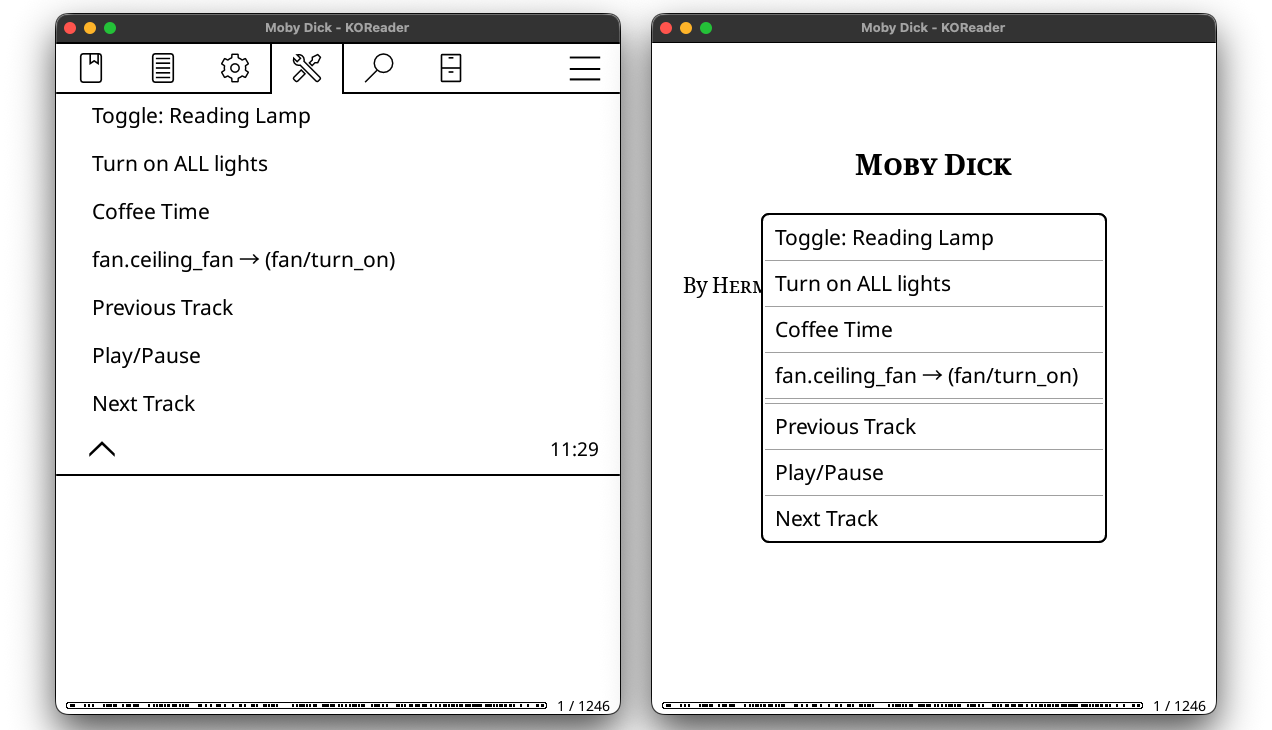
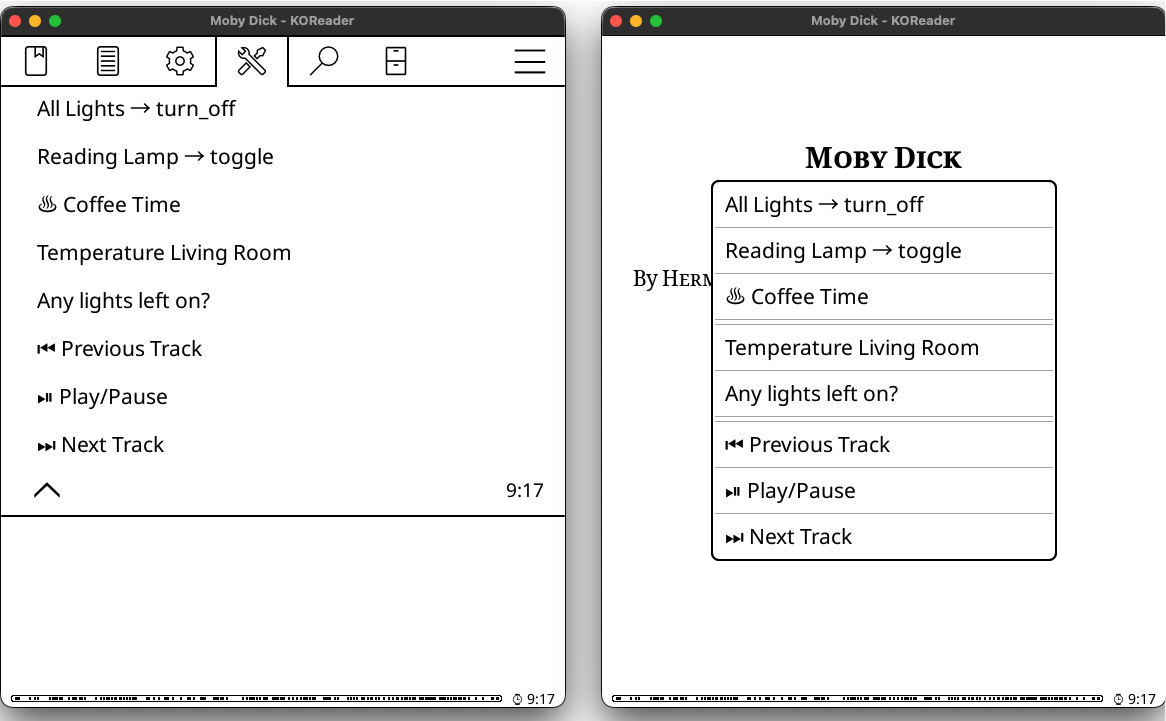
Update README with new config.lua format
Update screenshots

diff --git a/README.md b/README.md
@@ -14,7 +14,8 @@ This [KOReader](https://koreader.rocks/) plugin lets you control Home Assistant 
 ## Features
 
 - Control any number of Home Assistant entities from KOReader 
-- Basic service support (e.g. `light/turn_on`, `switch/toggle`, `fan/turn_on`)  
+- Basic service support (e.g. `light/turn_on`, `fan/turn_on` or `media_player/media_play_pause`)  
+- Basic entity state support (e.g. `sensor.temperature_outside` or `binary_sensor.front_door`)
 - Lightweight, unobtrusive interface  
 - Simple text-based configuration  
 - Success/error notifications
@@ -40,89 +41,106 @@ token =                 -- Change to your own Long-Lived Access Token
 
 >[!tip] 
 > How to create a Long-Lived Access Token:   
-> [**Home Assistant**](https://my.home-assistant.io/redirect/profile): *Profile → >Security (scroll down) → Long-lived access tokens → Create token*  
+> [**Home Assistant**](https://my.home-assistant.io/redirect/profile): *Profile → Security (scroll down) → Long-lived access tokens → Create token*  
 > _Copy the token now - you won’t be able to view it again._
 
 <br>
 
 #### 2.2 Add your own Home Assistant Entities
+##### 2.2.1 Controllable Entities
 
-For each entity you want to control, add an entry with:
-
+For each Home Assistant entity you want to control (e.g. `light → toggle`), add an entry with:
 ```
 {
-id = "light.example"         → Home Assistant Entity ID
-service = "light/toggle"     → Domain-specific service to call
-label = "Light Example"      → Optional text label
+    id = "light.reading_light"   → Entity ID (required)
+    service = "toggle"           → Service
+    label = "Reading Light"      → Display name (required)
 },
 ```
 
->[!important]
-> Use the **service** format `light/turn_on`.  
-> Do not use automation-style **action** syntax ~~`light.turn_on`~~.
+<details>
+<summary>Controll ALL entities of a specifig Home Assistant Domain</summary>
 
-<br>
+To target every entity in a Home Assistant domain, set:  
+1) `id = "all"`  
+2) `domain = "<domain_name>"` (required, because "all" has no domain prefix)  
+Example:
+
+```
+{
+    id = "all"
+    domain = "light"
+    service = "toggle"
+    label = "Light Example"
+},
+```
+</details>
+
+##### 2.2.2 Read-Only Entities
+
+If you want to get the [state](https://www.home-assistant.io/docs/configuration/state_object/#about-the-state) of an entitiy omit the `<service>` call.  
+Example syntax:
+
+```
+{
+    id = "sensor.temperature_outside"    → Entity ID (required)
+    label = "Show Temperature Outside"   → Display name (required)
+},
+```
 
 Example entries for Home Assistant entities in `config.lua`:
 ```lua
 {
-    id = "light.reading_lamp",
-    service = "light/toggle",   
-    label = "Toggle: Reading Lamp",
+    id = "all",
+    domain = "light",
+    service = "turn_off",
+    label = "Turn off all lights",
 },
 {
-    id = "light.all_lights",
-    service = "light/turn_on",
-    label = "Turn on ALL lights",
+    id = "light.reading_lamp",
+    service = "toggle",
+    label = "Reading Lamp → toggle",
 },
 {
     id = "switch.coffee_machine",
-    service = "switch/turn_on",
-    label = "Coffee Time",
+    service = "turn_on",
+    label = "♨ Coffee Time",
 },
 {
-    id = "fan.ceiling_fan",
-    service = "fan/turn_on",
-    label = "",
+    id = "light.living_room",
+    label = "Light in living room left on?",
+},
+{
+    id = "binary_sensor.front_door",
+    label = "Is the door closed?",
 },
 [...]
 ```
 _Be aware of proper indentations, `{}` and `,` otherwise you will get syntax errors_
 
->[!Tip] 
-> If you leave the `label` field empty, the submenu entry for that entity will look like this:  
-> `<id> → <(service)>`
-
-<details>
-<summary>Screenshot: Empty Label</summary>
-<p align="left">
-<img src="assets/empty_label.png"  alt="homeassistant.koplugin screenshots" style="width:70%; height:auto;"/>
-</p>
-</details>
-
-<br>
-
 #### Example Actions & Services
+
 Here are common Home Assistant services you can use in `config.lua`:
 
-| Entity Type      | Action Name                                              | Corresponding Service                                          | Example Entity ID          |
-| :--------------- | :------------------------------------------------------- | :------------------------------------------------------------- | :------------------------- |
-| **Light**        | light.turn_on <br/> light.turn_off <br/> light.toggle    | `light/turn_on` <br/> `light/turn_off` <br/> `light/toggle`    | light.reading_lamp         |
-| **Switch**       | switch.turn_on <br/> switch.turn_off <br/> switch.toggle | `switch/turn_on` <br/> `switch/turn_off` <br/> `switch/toggle` | switch.outlet_couch        |
-| **Fan**          | fan.turn_on <br/> fan.turn_off <br/> fan.toggle          | `fan/turn_on` <br/> `fan/turn_off` <br/> `fan/toggle`          | fan.ceiling_fan            |
-| **Scene**        | scene.turn_on                                            | `scene/turn_on`                                                | scene.reading_mood         |
-| **Automation**   | automation.trigger                                       | `automation/trigger`                                           | automation.bed_routine     |
-| **Input Button** | input_button.press                                       | `input_button/press`                                           | input_button.wake_computer |
-| **Media Player** | media_player.media_play_pause                            | `media_player/media_play_pause`                                |                            |
+| Entity Type      | Example Entity ID          | Example Services                                                       |
+| :--------------- | :------------------------- | :--------------------------------------------------------------------- |
+| **Light**        | light.reading_lamp         | `turn_on` <br> `turn_off` <br> `toggle`                                |
+| **Switch**       | switch.outlet_couch        | `turn_on` <br> `turn_off` <br> `toggle`                                |
+| **Fan**          | fan.ceiling_fan            | `turn_on` <br> `turn_off` <br> `toggle`                                |
+| **Media Player** | media_player.all_speakers  | `media_play_pause` <br> `media_next_track` <br> `media_previous_track` |
+| **Scene**        | scene.reading_mood         | `turn_on`                                                              |
+| **Automation**   | automation.bed_routine     | `trigger`                                                              |
+| **Input Button** | input_button.wake_computer | `press`                                                                |
+
 
 >[!Note] 
 > Only _basic_ services are supported.  
 > Additional service data (e.g. `rgb_color`) is not.
 
-<br>
-
 ### 3. Copy files
 After editing `config.lua` copy the entire `homeassistant.koplugin` folder into `koreader/plugins/`.
+
+Copy the `icons` folder to `koreader/`.
 
 ### 4. Restart KOReader
 The plugin appears under **Tools → Page 2 → Home Assistant**    
@@ -165,11 +183,11 @@ The result looks like this:
 </p>
 
 <p align="center">
-<img src="assets/submenu_entries.png"  alt="Example Home Assistant entities in the submenu" style="width:70%; height:auto;"/>
+<img src="assets/error_message.png"  alt="Error notification" style="width:70%; height:auto;"/>
 </p>
 
 <p align="center">
-<img src="assets/failure_success_message.png"  alt="Failure & Success notification" style="width:70%; height:auto;"/>
+<img src="assets/success_message.png"  alt="Success notification" style="width:70%; height:auto;"/>
 </p>
 
 [homeassistant.koplugin Repository](https://github.com/moritz-john/homeassistant.koplugin)  
